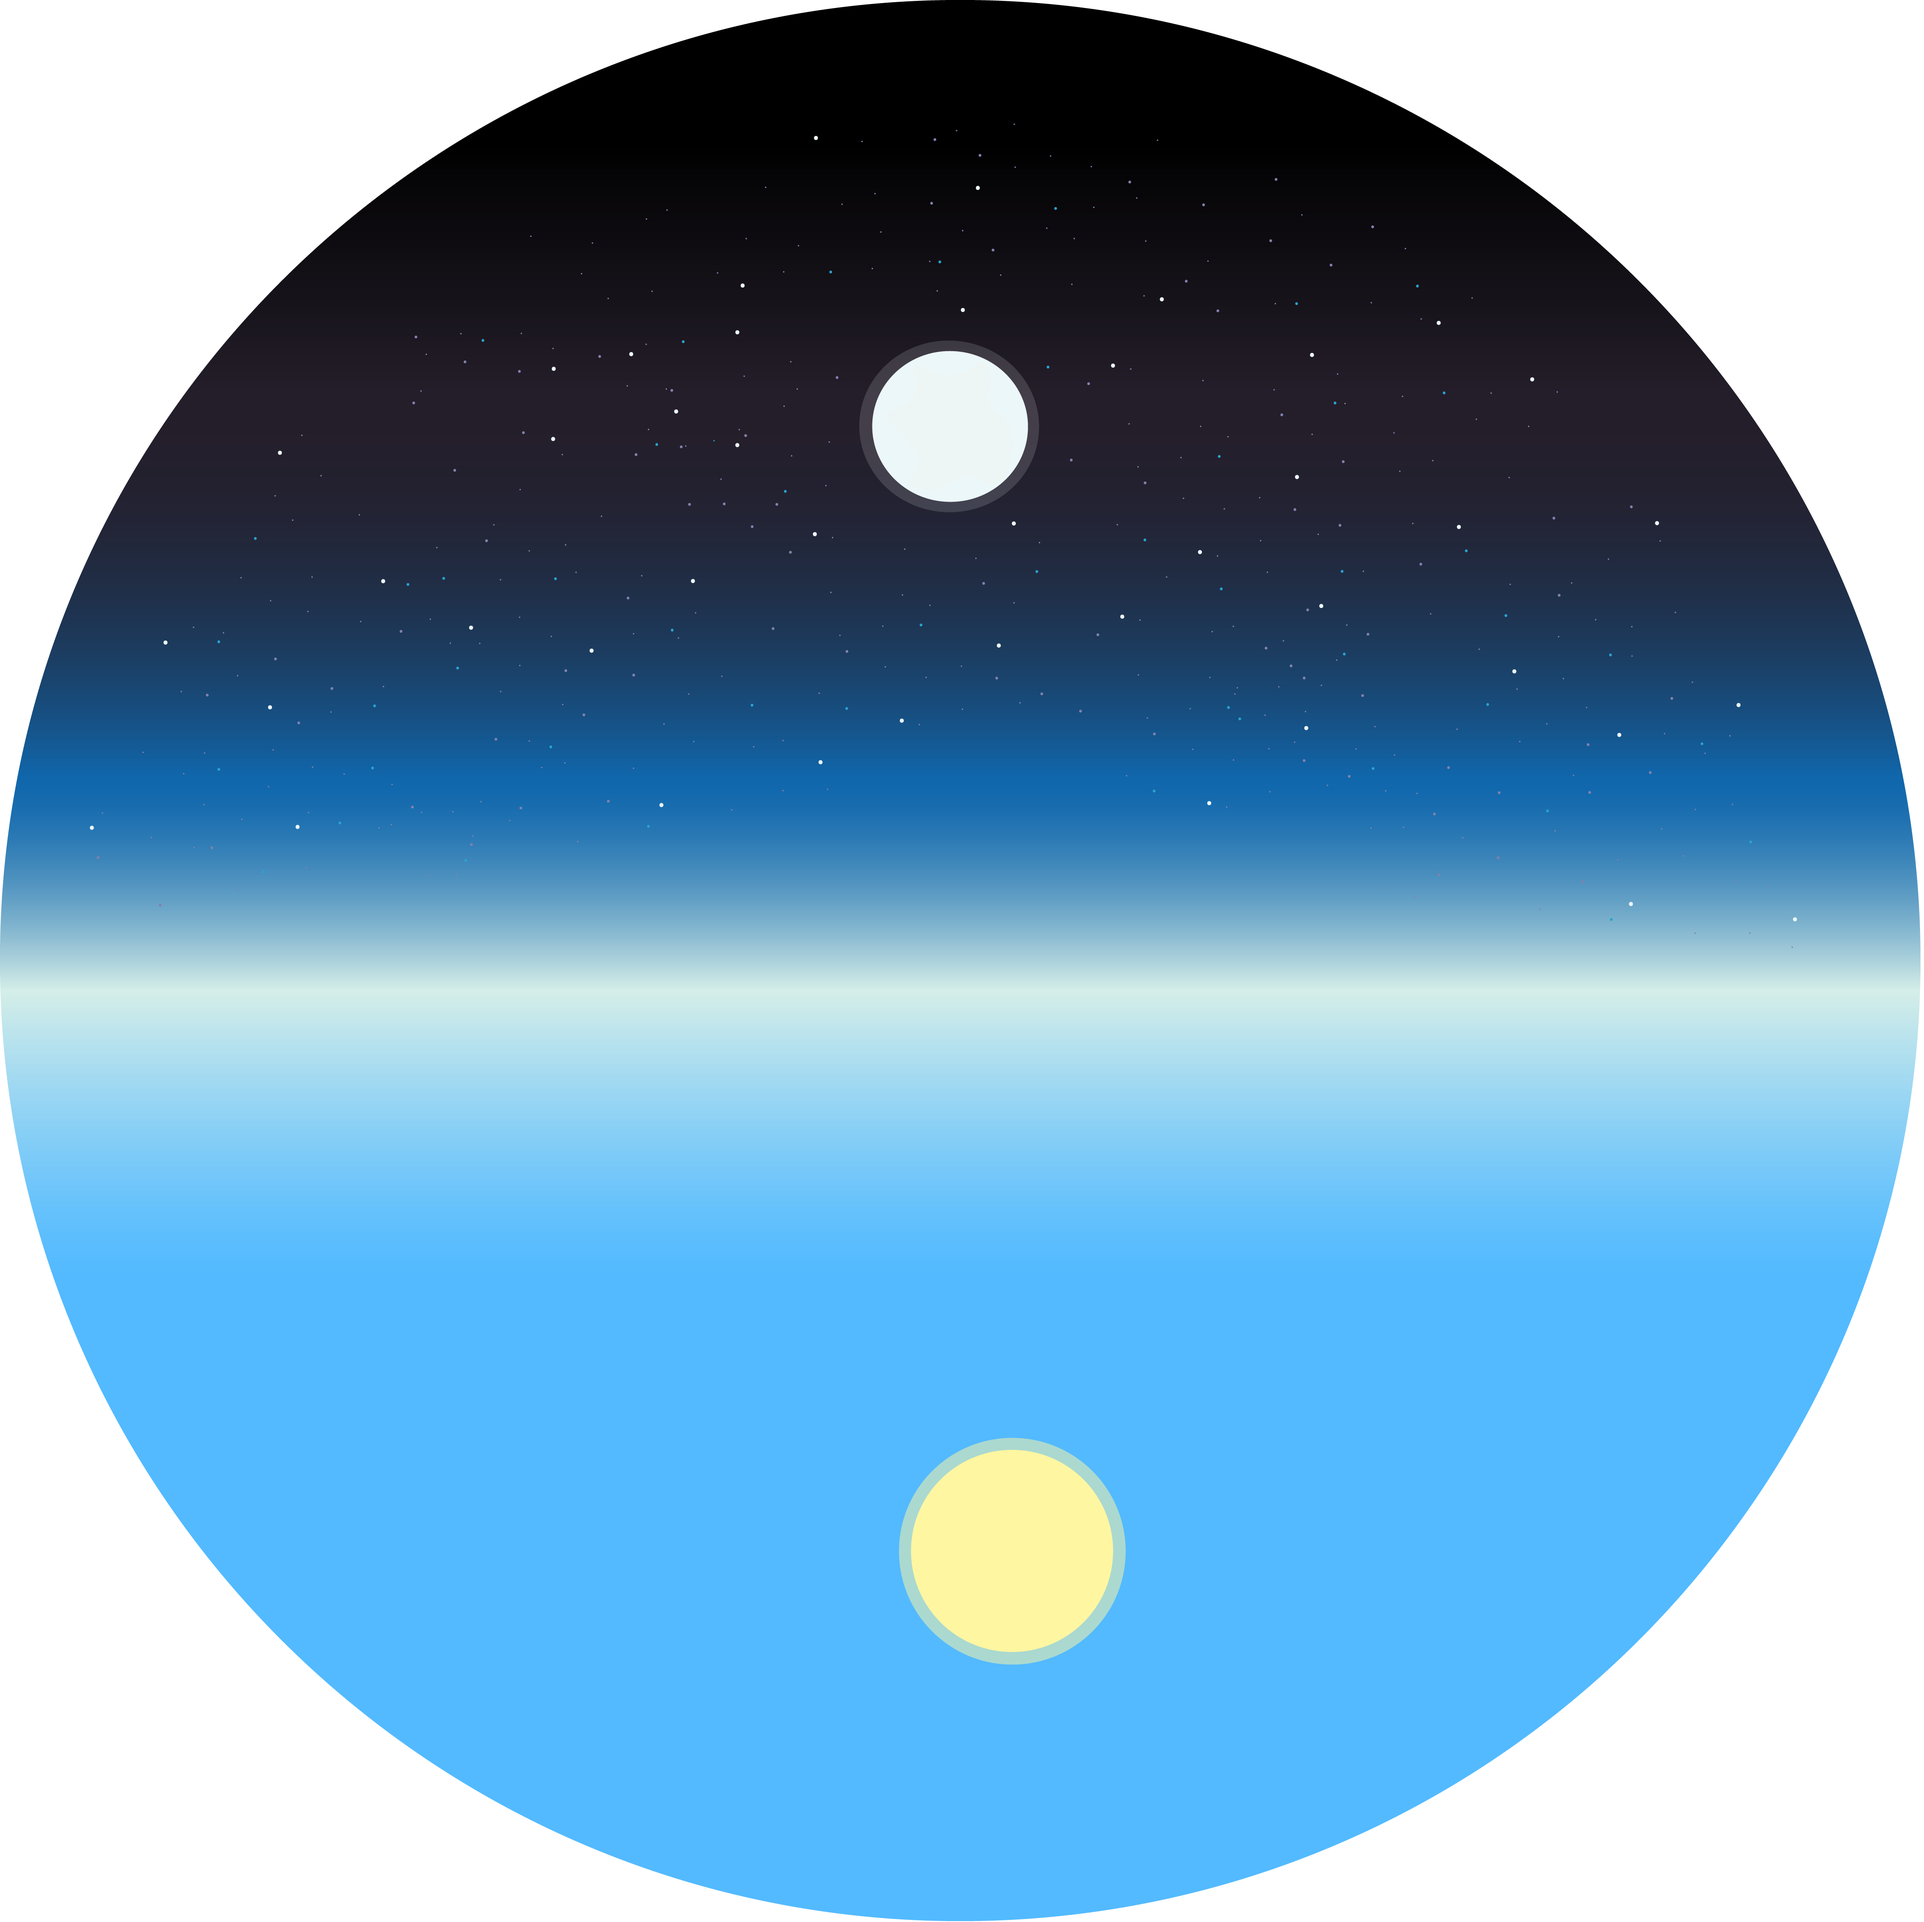
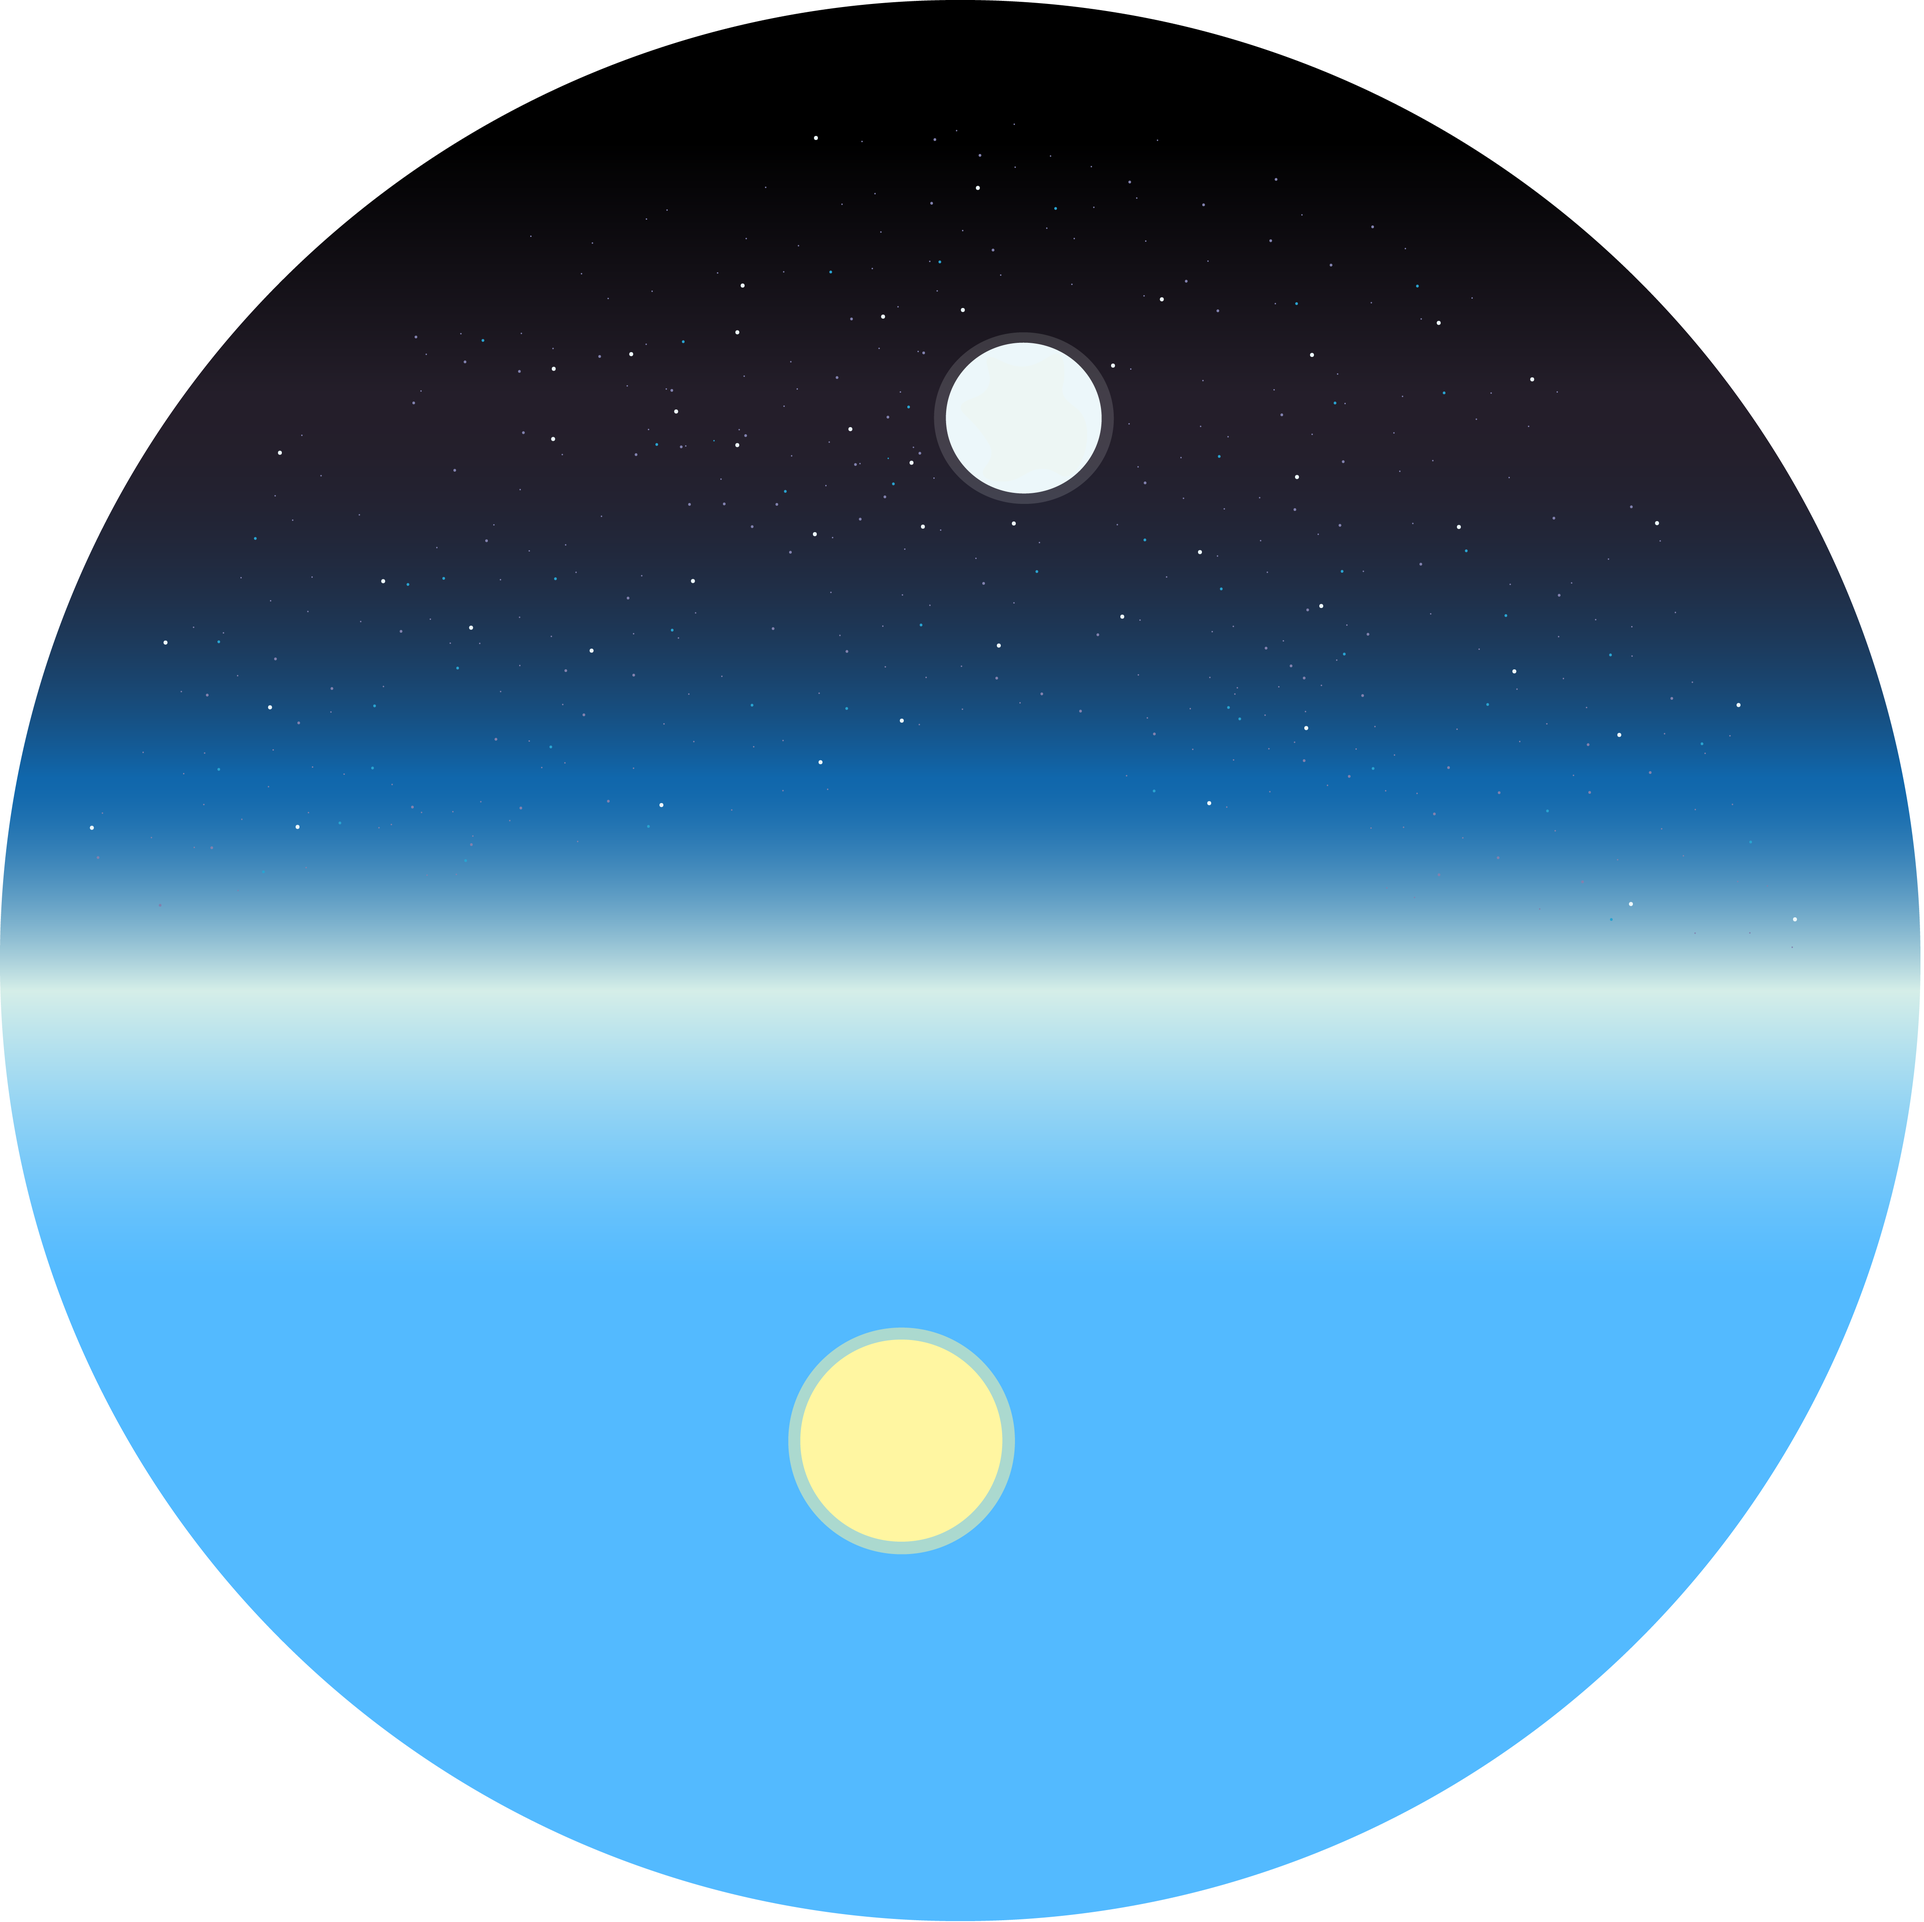
feat: progress

Changed region(s): [[0.4053, 0.6869, 0.5924, 0.8742], [0.4365, 0.1561, 0.5924, 0.281]]

diff --git a/src/components/HomePage/styles/Banner.css b/src/components/HomePage/styles/Banner.css
@@ -7,7 +7,6 @@
   height: 100vh;
   display: flex;
   justify-content: space-between;
-  align-items: center;
 }
 
 .card {
@@ -25,13 +24,15 @@
 .Picture2Me {
   position: absolute;
   bottom: -45.5%;
-  height: 90vh; /* Set height to 90vh */
-  width: auto; /* Ensure the width adjusts automatically */
-  max-width: 100%; /* Prevent the width from exceeding the container */
-  max-height: 90vh; /* Prevent the height from exceeding 90vh */
+  height: 90vh;
+  width: auto;
+  max-width: 100%;
+  max-height: 90vh;
   backface-visibility: hidden;
   cursor: grab;
-  object-fit: contain; /* Preserve aspect ratio */
+  object-fit: contain;
+  border-radius: 60px;
+  border: solid 2px white;
 }
 
 .card:hover {
@@ -46,12 +47,14 @@
   position: relative;
   display: flex;
   flex-direction: column;
-  align-items: end;
+  align-items: start;
 }
 .rowContainer {
   display: flex;
   width: 100%;
   justify-content: space-around;
+  height: 90%;
+  align-items: center;
 }
 
 .rowContainerBottom {
@@ -61,39 +64,34 @@
 }
 
 .banner-row {
-  color: aliceblue;
+  color: rgb(255, 255, 255);
   display: flex;
-  align-items: end;
+  align-items: start;
   font-family: "Arial"; /* Specify a monospaced font */
-  font-weight: bold;
 }
 
 /* Center-aligned Row */
 .banner-row.center {
-  color: rgb(255, 236, 23);
-  font-size: 8.5rem;
+  font-size: 5rem;
 }
 
 .banner-row.bottom {
-  font-size: 8rem;
+  font-size: 5rem;
 }
 
 .banner-row.top {
-  font-size: 8.5rem;
+  font-size: 5rem;
 }
 
 /* Letter and Title Styling */
 .row-title {
   position: relative;
   display: inline-block;
-  margin-bottom: -20px;
-  margin-top: -20px;
 }
 
 .rotatingBlock {
   width: 100%;
   position: relative;
-  height: 100%;
   transition: transform 0.5s; /* Smooth transition for rotation */
   overflow: hidden;
 }
@@ -105,15 +103,14 @@
   align-items: center;
 }
 .blockPanel {
-  color: rgb(255, 227, 16);
+  color: rgb(255, 225, 117);
   width: 100%;
-  text-align: end;
+  text-align: start;
   height: 100%;
-  font-size: 7.3rem; /* Adjust font size as needed */
+  font-size: 5rem; /* Adjust font size as needed */
   transform-origin: center bottom; /* Rotation around the bottom edge */
-  align-items: end;
+  align-items: start;
   font-family: "Arial"; /* Specify a monospaced font */
-  font-weight: bold;
 }
 
 .panelVisible {
@@ -135,25 +132,8 @@
 
 .MePicture {
   width: 80%;
-}
-
-@media (max-width: 1500px) {
-  .banner-row.center {
-    font-size: 8.5rem;
-  }
-
-  .banner-row.bottom {
-    font-size: 7.5rem;
-  }
-
-  .banner-row.top {
-    font-size: 8.5rem;
-  }
-
-  .blockPanel {
-    top: 40px;
-    font-size: 7.3rem;
-  }
+  border-radius: 60px;
+  border: solid 5px white;
 }
 
 @media (max-width: 1477px) {
@@ -187,7 +167,7 @@
   }
 
   .banner-row.bottom {
-    font-size: 4.5rem;
+    font-size: 5rem;
   }
 
   .banner-row.top {

diff --git a/src/components/HomePage/Home.js b/src/components/HomePage/Home.js
@@ -18,6 +18,7 @@ export async function loadHomePage(darkMode, toggleDarkMode) {
     console.log("A");
     skyImage.classList.toggle("dark-mode", darkMode);
   }
+
   const bannerEl = await Banner();
   const bannerTarget = container.querySelector("#banner");
   if (bannerTarget) bannerTarget.replaceWith(bannerEl);
@@ -26,16 +27,57 @@ export async function loadHomePage(darkMode, toggleDarkMode) {
   const roomTarget = container.querySelector("#roomScene");
   if (roomTarget) roomTarget.replaceWith(roomEl);
 
-  const projectData = {
-    imageUrl: "your-image.png",
-    title: "Good Morning Café NFT",
-    date: "May–June 2023",
-    tags: ["Product Design", "UX Research", "Figma"],
-  };
+  const projectData = [
+    {
+      imageUrl: "/PortfolioWebsite/3dgame.webp",
+      title: "Good Morning Café NFT",
+      date: "May–June 2023",
+      tags: ["Product Design", "UX Research", "Figma"],
+    },
+    {
+      imageUrl: "/PortfolioWebsite/meiklejohn.webp",
+      title: "AI Music Tool",
+      date: "July 2023",
+      tags: ["ML", "Music", "React"],
+    },
+    {
+      imageUrl: "/PortfolioWebsite/sidequest.gif",
+      title: "Portfolio Website",
+      date: "2024",
+      tags: ["Frontend", "Vite", "Vanilla JS"],
+    },
+    {
+      imageUrl: "/PortfolioWebsite/PartifulRedesign.png",
+      title: "Visual Novel Engine",
+      date: "March 2024",
+      tags: ["Game Dev", "JS", "Narrative"],
+    },
+  ];
 
-  const card1 = createProjectCard(projectData);
   const cardTarget = container.querySelector("#projects-wrapper");
-  if (cardTarget) cardTarget.appendChild(card1);
+  if (cardTarget) {
+    cardTarget.style.display = "grid";
+    cardTarget.style.gridTemplateColumns = "1fr 1fr";
+    cardTarget.style.gridTemplateRows = "1fr 1fr";
+    cardTarget.style.columnGap = "4rem";
+    cardTarget.style.rowGap = "2rem";
+    cardTarget.style.justifyContent = "space-evenly";
+    cardTarget.style.alignItems = "center";
+    // cardTarget.style.margin = "0 auto";
+    cardTarget.style.width = "fit-content";
+
+    projectData.forEach((data) => {
+      const card = createProjectCard(data);
+      card.style.transition = "transform 0.3s ease";
+      card.addEventListener("mouseenter", () => {
+        card.style.transform = "scale(1.03)";
+      });
+      card.addEventListener("mouseleave", () => {
+        card.style.transform = "scale(1)";
+      });
+      cardTarget.appendChild(card);
+    });
+  }
 
   return await PageWrapper({
     verticalScrollContent: container,

diff --git a/src/components/HomePage/Banner.js b/src/components/HomePage/Banner.js
@@ -16,23 +16,20 @@ export async function Banner() {
   const rotatingBlock = banner.querySelector("#rotatingBlock");
 
   if (!rowTop || !rowCenter || !rowBottom || !rotatingBlock) {
-    throw new Error("❌ Missing one or more required banner elements");
+    throw new Error("Missing one or more required banner elements");
   }
 
   // Animate full rows (no staggered letters)
-  animateFullRow(rowTop, "I'M ROBERTO");
-  animateFullRow(rowCenter, "GONZALES");
-  animateFullRow(rowBottom, "AND I LOVE TO");
+  animateFullRow(rowTop, "Hi! I'm Roberto");
+  animateFullRow(rowCenter, "a Software Engineer");
+  animateFullRow(rowBottom, "and UIUX Designer.");
 
   // Animate activities
   const activities = [
-    "BREAKDANCE",
-    "PLAY MUSIC",
-    "COOK",
-    "CODE",
-    "DANCE SALSA",
-    "DO KARATE",
-    "TRAVEL",
+    "I breakdance!",
+    "I love to play music",
+    "Learning to cook",
+    "I'm a black belt",
   ];
   let currentActivity = 0;
 

diff --git a/src/components/Helpers/ProjectCard.css b/src/components/Helpers/ProjectCard.css
@@ -6,13 +6,13 @@ body {
 }
 
 .ProjectCard {
-  max-width: 960px;
-  margin: 40px auto;
+  max-width: 500px;
   padding: 20px;
   border-radius: 20px;
-  background-color: #fff;
-  box-shadow: 0 0 20px rgba(0, 0, 0, 0.05);
+  background-color: #2e2c54a6;
+  box-shadow: 0 0 20px rgba(31, 31, 31, 0.05);
   transition: opacity 1s ease, transform 1s ease;
+  border: 1px solid black;
 }
 
 .image-card {
@@ -20,14 +20,19 @@ body {
   border-radius: 20px;
 }
 
+.title-card {
+  color: white;
+}
+
 .main-image {
   width: 100%;
   border-radius: 20px;
   display: block;
+  aspect-ratio: 6 / 3;
 }
 
 .description {
-  margin-top: 24px;
+  margin-top: 10px;
 }
 
 .title-row {
@@ -39,7 +44,7 @@ body {
 
 .date {
   font-style: italic;
-  color: #888;
+  color: #e1e1e1;
 }
 
 .tags {

diff --git a/public/components/HomePage/Banner.html b/public/components/HomePage/Banner.html
@@ -1,8 +1,5 @@
 <div class="banner">
   <div class="rowContainer">
-    <div class="MeContainer">
-      <img class="MePicture" src="/public/me.jpg" alt="Roberto" />
-    </div>
     <div class="bannerTextContainer">
       <div class="banner-row top">
         <span class="row-title" id="row-top"></span>
@@ -14,6 +11,9 @@
         <span class="row-title" id="row-bottom"></span>
       </div>
       <div id="rotatingBlock" class="rotatingBlock"></div>
+    </div>
+    <div class="MeContainer">
+      <img class="MePicture" src="/public/me.jpg" alt="Roberto" />
     </div>
   </div>
 </div>

diff --git a/public/components/HomePage/RoomScene.html b/public/components/HomePage/RoomScene.html
@@ -1,7 +1,7 @@
 <div class="container">
   <div class="image-container">
     <img class="roomHighlight" style="display: none" />
-    <img class="room" src="/PortfolioWebsite/room3D.webp" alt="room" />
+    <img class="room" src="/PortfolioWebsite/room3D.png" alt="room" />
     <svg
       class="svg-overlay"
       viewBox="0 0 797 744"

diff --git a/src/components/Helpers/ProjectCard.js b/src/components/Helpers/ProjectCard.js
@@ -8,7 +8,7 @@ export function createProjectCard({ imageUrl, title, date, tags }) {
     </div>
     <div class="description fade-in-delay">
       <div class="title-row">
-        <h1>${title}</h1>
+        <h1 class="title-card">${title}</h1>
         <span class="date">${date}</span>
       </div>
       <div class="tags">

diff --git a/src/components/HomePage/styles/Home.css b/src/components/HomePage/styles/Home.css
@@ -111,6 +111,13 @@
   animation: reverseButtonContainerChange 2s forwards;
 }
 
+.CardContainer {
+  height: 110%;
+  display: flex;
+  align-items: end;
+  justify-content: center;
+}
+
 @keyframes buttonChange {
   0% {
     color: transparent;
